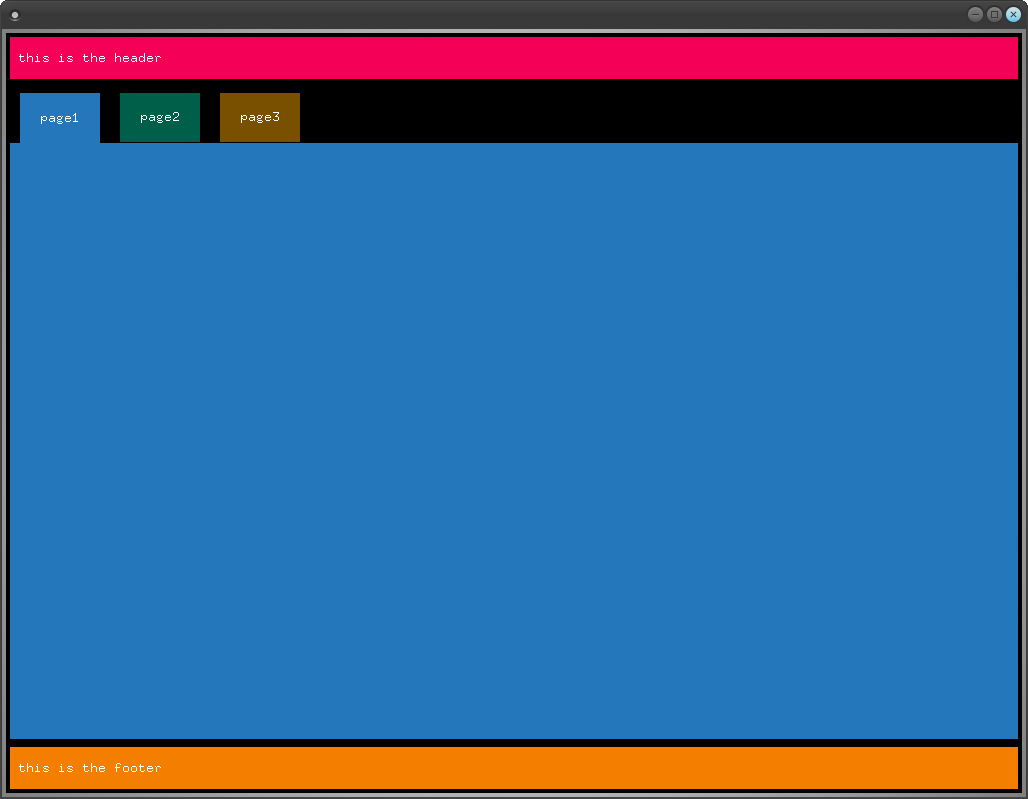
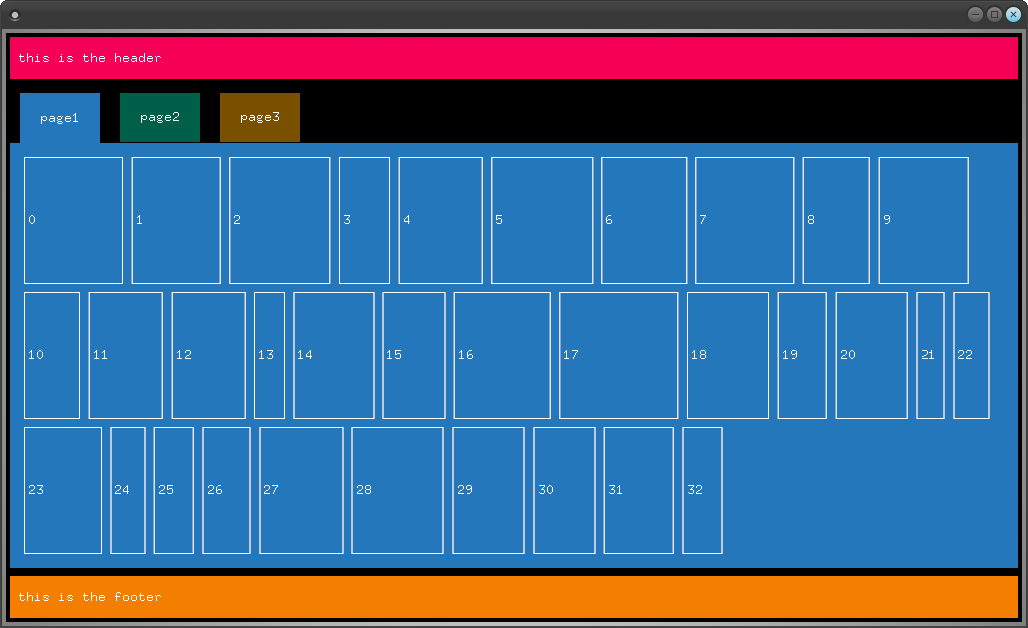
theme fixes

diff --git a/src/containers/ofxGuiGroup.cpp b/src/containers/ofxGuiGroup.cpp
@@ -22,12 +22,12 @@ void ofxGuiGroupHeader::generateDraw(){
 	ofxGuiGroup* _parent = dynamic_cast<ofxGuiGroup*>(parent());
 	if(_parent){
 		if(_parent->getShowName()){
-			textMesh.append(getTextMesh(_parent->getName(), textPadding * 2, getHeight()/ 2 + 4));
+			textMesh.append(getTextMesh(_parent->getName(), textPadding, getHeight()/ 2 + 4));
 		}
 		if(_parent->getMinimized()){
-			textMesh.append(getTextMesh("+", getWidth() - textPadding * 2 - 10, getHeight() / 2 + 4));
+			textMesh.append(getTextMesh("+", getWidth() - textPadding - 10, getHeight() / 2 + 4));
 		}else{
-			textMesh.append(getTextMesh("-", getWidth()- textPadding * 2 - 10, getHeight() / 2 + 4));
+			textMesh.append(getTextMesh("-", getWidth()- textPadding - 10, getHeight() / 2 + 4));
 		}
 	}
 }
@@ -85,16 +85,7 @@ float ofxGuiGroupHeader::getMinWidth(){
 }
 
 float ofxGuiGroupHeader::getMinHeight(){
-	generateDraw();
-	float _height = 0;
-	ofVboMesh mesh = textMesh;
-	for(unsigned int i = 0; i < mesh.getVertices().size(); i++){
-		if(mesh.getVertex(i).y > _height){
-			_height = mesh.getVertex(i).y;
-		}
-	}
-	_height += textPadding * 2;
-	return _height;
+	return ofxGuiElement::getTextHeight("test")+5;
 }
 
 std::string ofxGuiGroupHeader::getClassType(){
@@ -181,7 +172,7 @@ void ofxGuiGroup::setup(){
 
 	showHeader.set("show-header", true);
 
-	header = add<ofxGuiGroupHeader>();
+	header = add<ofxGuiGroupHeader>(ofJson({{"margin", 0}}));
 
 //	createLayout<ofxDOMFlexBoxLayout>(this);
 
@@ -333,8 +324,10 @@ ofxGuiElement* ofxGuiGroup::addSpacer(float width, float height){
 
 ofxGuiElement *ofxGuiGroup::addSpacer(const ofJson& config){
 	ofxGuiElement* e = add<ofxGuiElement>();
-	e->setBorderWidth(0);
-	e->setBackgroundColor(ofColor(0,0,0,0));
+	e->setConfig(ofJson({
+		{"border-width", 0},
+		{"background-color", "rgba(0,0,0,0)"}
+	}));
 	e->setConfig(config);
 	return e;
 }
@@ -637,6 +630,7 @@ void ofxGuiGroup::onHeaderHeight(float &height){
 void ofxGuiGroup::onChildAdded(DOM::ElementEventArgs& args){
 	if(ofxGuiElement* e = dynamic_cast<ofxGuiElement*>(args.element())){
 		parameters.add(e->getParameter());
+		e->setTheme(theme);
 	}
 }
 

diff --git a/src/ofxGuiElement.cpp b/src/ofxGuiElement.cpp
@@ -157,11 +157,19 @@ void ofxGuiElement::loadTheme(const string &filename){
 
 void ofxGuiElement::_setConfigUsingClassifiers(const ofJson &config, bool recursive){
 
+	themeLoading = true;
 
 	for(std::string classifier : this->getClassTypes()){
 		ofJson::const_iterator it = config.find(classifier);
 		if(it != config.end()){
-			setConfig(*it, false);
+			//filter out all config entries that are already set individually for this item
+			ofJson configFiltered;
+			for (ofJson::const_iterator it2 = (*it).begin(); it2 != (*it).end(); ++it2) {
+				if(individualConfig.find(it2.key()) == individualConfig.end()){
+					configFiltered[it2.key()] = it2.value();
+				}
+			}
+			setConfig(configFiltered, false);
 		}
 	}
 
@@ -173,6 +181,8 @@ void ofxGuiElement::_setConfigUsingClassifiers(const ofJson &config, bool recurs
 			}
 		}
 	}
+
+	themeLoading = false;
 
 }
 
@@ -301,6 +311,9 @@ void ofxGuiElement::_setConfig(const ofJson &config){
 		//WARNING this will crash if there are non string keys in the config
 		for (ofJson::const_iterator it = _config.begin(); it != _config.end(); ++it) {
 			std::string key = "_" + it.key();
+			if(!themeLoading){
+				individualConfig[it.key()] = it.value();
+			}
 			if(it.value().is_string() || it.value().is_number() || it.value().is_boolean()){
 				std::string value;
 				if(it.value().is_string()){
@@ -601,7 +614,7 @@ void ofxGuiElement::loadStencilFromHex(ofImage & img, unsigned char * data){
 }
 
 float ofxGuiElement::getTextWidth(const std::string & text){
-	return getTextBoundingBox(text).width;
+	return getTextBoundingBox(text).width+2*textPadding;
 //	float _width = 0;
 //	ofVboMesh mesh = getTextMesh(text, 0, 0);
 //	for(unsigned int i = 0; i < mesh.getVertices().size(); i++){
@@ -614,7 +627,7 @@ float ofxGuiElement::getTextWidth(const std::string & text){
 }
 
 float ofxGuiElement::getTextHeight(const std::string & text){
-	return getTextBoundingBox(text).height;
+	return getTextBoundingBox(text).height/2+2*textPadding;
 //	float _height = 0;
 //	ofVboMesh mesh = getTextMesh(text, 0, 0);
 //	for(unsigned int i = 0; i < mesh.getVertices().size(); i++){

diff --git a/src/view/ofxDOMBoxLayout.cpp b/src/view/ofxDOMBoxLayout.cpp
@@ -55,13 +55,9 @@ void ofxDOMBoxLayout::doLayout()
 		float totalHeight = 0;
 		float currentX = DOMLH::getPaddingLeft(_parent);
 		float currentY = DOMLH::getPaddingTop(_parent);
-		bool resizeParent = false;
 
-
-		for (DOM::Element* element : children())
-		{
-			if (element)
-			{
+		for (DOM::Element* element : children()){
+			if (element){
 				if(!element->isHidden()){
 
 					float w = max(element->getWidth(), DOMLH::getDesiredWidth(element)-DOMLH::getMarginHorizontal(element));
@@ -75,18 +71,18 @@ void ofxDOMBoxLayout::doLayout()
 						if (getDirection(_parent) == Direction::HORIZONTAL)
 						{
 							totalHeight = std::max(totalHeight, h+DOMLH::getMarginVertical(element));
-							currentX += w+DOMLH::getMarginHorizontal(element);
+							currentX += w + DOMLH::getMarginHorizontal(element);
 							totalWidth = currentX;
 						}
 						else
 						{
 							totalWidth = std::max(totalWidth, w+DOMLH::getMarginHorizontal(element));
-							currentY += h+DOMLH::getMarginVertical(element);
+							currentY += h + DOMLH::getMarginVertical(element);
 							totalHeight = currentY;
 						}
-					}else{
-//							element->setSizeInLayout(w-getMarginHorizontal(element), h-getMarginVertical(element));
-					}
+					}/*else{
+							element->setSizeInLayout(w-DOMLH::getMarginHorizontal(element), h-DOMLH::getMarginVertical(element));
+					}*/
 
 				}
 			}
@@ -118,10 +114,6 @@ void ofxDOMBoxLayout::doLayout()
 					}
 				}
 			}
-		}
-
-		if(totalWidth != _parent->getWidth() || totalHeight != _parent->getHeight()){
-			resizeParent = true;
 		}
 
 		if(totalWidth != _parent->getWidth() || totalHeight != _parent->getHeight()){

diff --git a/exampleLayout/src/ofApp.cpp b/exampleLayout/src/ofApp.cpp
@@ -16,6 +16,7 @@ void ofApp::setup(){
 		{"background-color", "#000000"}
 	}));
 
+	// add header group
 	ofxGuiGroup* header = all->addGroup("header", ofJson({
 		{"flex-direction", "row"},
 		{"show-header", false},
@@ -27,11 +28,27 @@ void ofApp::setup(){
 	// create tab container
 	ofxGuiTabs* tabbed_pages = all->addTabs("tabbedpages", ofJson({{"flex", 1}}));
 
-	// create pages and add them to tab layout
-	tabbed_pages->addGroup("page1", ofJson({{"background-color", "#2377BA"}}));
+	// add a page to the tab container
+	ofxGuiGroup* page1 = tabbed_pages->addGroup("page1", ofJson({
+		{"background-color", "#2377BA"},
+		{"flex-direction", "row"},
+		{"padding", 10},
+		{"flex-wrap", "wrap"}
+	}));
+
+	// add labels with random width to the first page
+	for(int i = 0; i < 33; i++){
+		page1->addLabel(ofToString(i), ofJson({
+			{"border-width", 1},
+			{"width", ofRandom(30, 130)}
+		}));
+	}
+
+	// add two more pages without content
 	tabbed_pages->addGroup("page2", ofJson({{"background-color", "#00CA98"}}));
 	tabbed_pages->addGroup("page3", ofJson({{"background-color", "#ffaa00"}}));
 
+	//add footer group
 	ofxGuiGroup* footer = all->addGroup("footer", ofJson({
 		{"flex-direction", "row"},
 		{"show-header", false},

diff --git a/src/controls/ofxGuiSlider.cpp b/src/controls/ofxGuiSlider.cpp
@@ -417,22 +417,19 @@ float ofxGuiSlider<DataType>::getMinWidth(){
 	float _width = 0;
 	if(type == ofxGuiSliderType::STRAIGHT){
 		if(showName){
-			_width += ofxGuiElement::getTextWidth(getName())+2*textPadding;
+			_width += ofxGuiElement::getTextWidth(getName());
 		}
-		_width += ofxGuiElement::getTextWidth(ofToString(value.get(), precision))+2*textPadding;
+		_width += ofxGuiElement::getTextWidth(ofToString(value.get(), precision));
 	}
 	return _width;
 }
 
 template<typename DataType>
 float ofxGuiSlider<DataType>::getMinHeight(){
-	float _height = 0;
-	if(type == ofxGuiSliderType::STRAIGHT){
-		if(showName){
-			_height += ofxGuiElement::getTextHeight(getName())+2*textPadding;
-		}
+	if((type == ofxGuiSliderType::STRAIGHT) && showName){
+		return ofxGuiElement::getTextHeight(getName());
 	}
-	return _height;
+	return 10;
 }
 
 /*

diff --git a/src/controls/ofxGuiToggle.cpp b/src/controls/ofxGuiToggle.cpp
@@ -72,7 +72,7 @@ void ofxGuiToggle::_setConfig(const ofJson &config){
 float ofxGuiToggle::getMinWidth(){
 	float _width = 0;
 	if(showName){
-		_width += ofxGuiElement::getTextWidth(getName()) + 2*textPadding;
+		_width += ofxGuiElement::getTextWidth(getName());
 	}
 	if(type != ofxGuiToggleType::FULLSIZE){
 		_width += 30;
@@ -81,11 +81,10 @@ float ofxGuiToggle::getMinWidth(){
 }
 
 float ofxGuiToggle::getMinHeight(){
-	float _height = 0;
 	if(showName){
-		_height += ofxGuiElement::getTextHeight(getName()) + 2*textPadding;
+		return ofxGuiElement::getTextHeight(getName());
 	}
-	return _height;
+	return 10;
 }
 
 bool ofxGuiToggle::mousePressed(ofMouseEventArgs & args){

diff --git a/src/controls/ofxGuiValuePlotter.cpp b/src/controls/ofxGuiValuePlotter.cpp
@@ -65,13 +65,13 @@ void ofxGuiValuePlotter::_setConfig(const ofJson & config){
 float ofxGuiValuePlotter::getMinWidth(){
 	float _width = ofxGuiElement::getTextWidth(ofToString(value.get(), decimalPlace));
 	if(showName){
-		_width += ofxGuiElement::getTextWidth(getName())+2*textPadding;
+		_width += ofxGuiElement::getTextWidth(getName());
 	}
 	return _width;
 }
 
 float ofxGuiValuePlotter::getMinHeight(){
-	return ofxGuiElement::getTextHeight(ofToString(value.get(), decimalPlace))+2*textPadding;
+	return ofxGuiElement::getTextHeight(ofToString(value.get(), decimalPlace));
 }
 
 void ofxGuiValuePlotter::setDecimalPlace(int place){

diff --git a/src/containers/ofxGuiPanel.cpp b/src/containers/ofxGuiPanel.cpp
@@ -99,14 +99,6 @@ bool ofxGuiPanelHeader::mousePressed(ofMouseEventArgs & args){
 
 }
 
-float ofxGuiPanelHeader::getMinWidth(){
-	return max(ofxGuiGroupHeader::getMinWidth(), 40.f);
-}
-
-float ofxGuiPanelHeader::getMinHeight(){
-	return max(ofxGuiGroupHeader::getMinHeight(), 20.f);
-}
-
 std::string ofxGuiPanelHeader::getClassType(){
 	return "panel-header";
 }
@@ -176,7 +168,7 @@ void ofxGuiPanel::setup(){
 	if(header){
 		removeChild(header);
 	}
-	header = add<ofxGuiPanelHeader>();
+	header = add<ofxGuiPanelHeader>(ofJson({{"margin", 0}}));
 	getHeader()->setHidden(!showHeader.get());
 
 	setTheme();

diff --git a/src/controls/ofxGuiFunctionPlotter.cpp b/src/controls/ofxGuiFunctionPlotter.cpp
@@ -41,17 +41,16 @@ void ofxGuiFunctionPlotter::_setConfig(const ofJson & config){
 float ofxGuiFunctionPlotter::getMinWidth(){
 	float _width = 0;
 	if(showName){
-		_width += ofxGuiElement::getTextWidth(getName())+2*textPadding;
+		_width += ofxGuiElement::getTextWidth(getName());
 	}
 	return _width;
 }
 
 float ofxGuiFunctionPlotter::getMinHeight(){
-	float _height = 0;
 	if(showName){
-		_height += ofxGuiElement::getTextHeight(getName())+2*textPadding;
+		return ofxGuiElement::getTextHeight(getName());
 	}
-	return _height;
+	return 0;
 }
 
 void ofxGuiFunctionPlotter::setDecimalPlace(int place){

diff --git a/src/controls/ofxGuiLabel.cpp b/src/controls/ofxGuiLabel.cpp
@@ -81,7 +81,7 @@ float ofxGuiValueLabel<Type>::getMinWidth(){
 	}
 	text += label.toString();
 
-	return ofxGuiElement::getTextWidth(text)+2*textPadding;
+	return ofxGuiElement::getTextWidth(text);
 }
 
 template<typename Type>
@@ -93,7 +93,8 @@ float ofxGuiValueLabel<Type>::getMinHeight(){
 		}
 	}
 	text += label.toString();
-	return ofxGuiElement::getTextHeight(text)+2*textPadding;
+
+	return ofxGuiElement::getTextHeight(text);
 }
 
 template<typename Type>

diff --git a/src/controls/ofxGuiGraphics.cpp b/src/controls/ofxGuiGraphics.cpp
@@ -58,15 +58,16 @@ void ofxGuiGraphics::setGraphics(ofBaseDraws *graphics){
 }
 
 float ofxGuiGraphics::getMinWidth(){
-	if(_bLoaded){
-		return 10;
+	float _width = 0;
+	if(showName){
+		_width += ofxGuiElement::getTextWidth(getName()) + 2*textPadding;
 	}
-	return 0;
+	return _width;
 }
 
 float ofxGuiGraphics::getMinHeight(){
-	if(_bLoaded){
-		return 10;
+	if(showName){
+		return ofxGuiElement::getTextHeight(getName());
 	}
 	return 0;
 }

diff --git a/src/controls/ofxGuiInputField.cpp b/src/controls/ofxGuiInputField.cpp
@@ -116,7 +116,7 @@ float ofxGuiInputField<Type>::getMinWidth(){
 		}
 	}
 
-	return ofxGuiElement::getTextWidth(text)+2*textPadding;
+	return ofxGuiElement::getTextWidth(text);
 }
 
 template<typename Type>
@@ -127,7 +127,7 @@ float ofxGuiInputField<Type>::getMinHeight(){
 			text = getName() + ": ";
 		}
 	}
-	return ofxGuiElement::getTextHeight(text)+2*textPadding;
+	return ofxGuiElement::getTextHeight(text);
 }
 
 template<typename Type>
